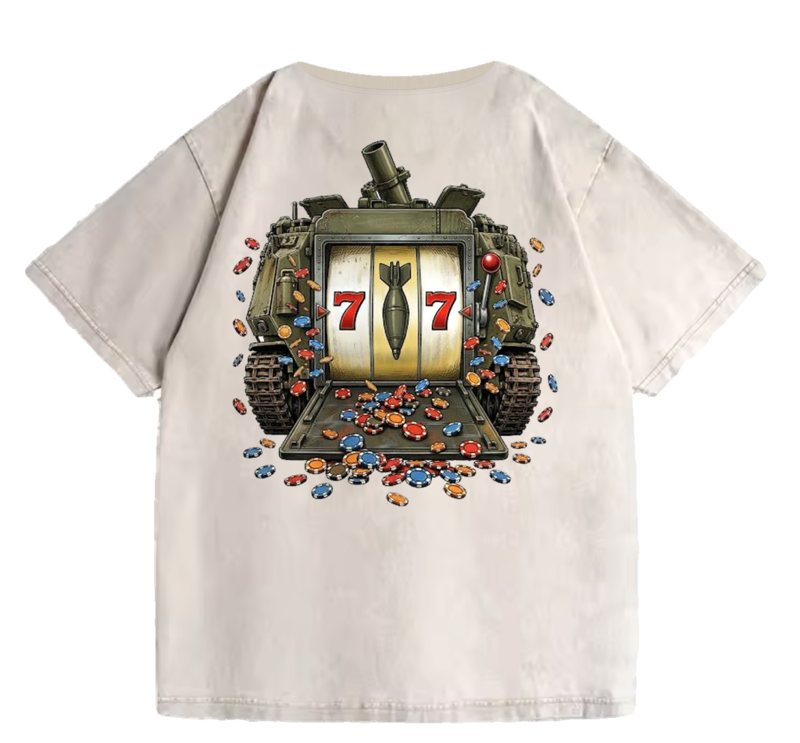
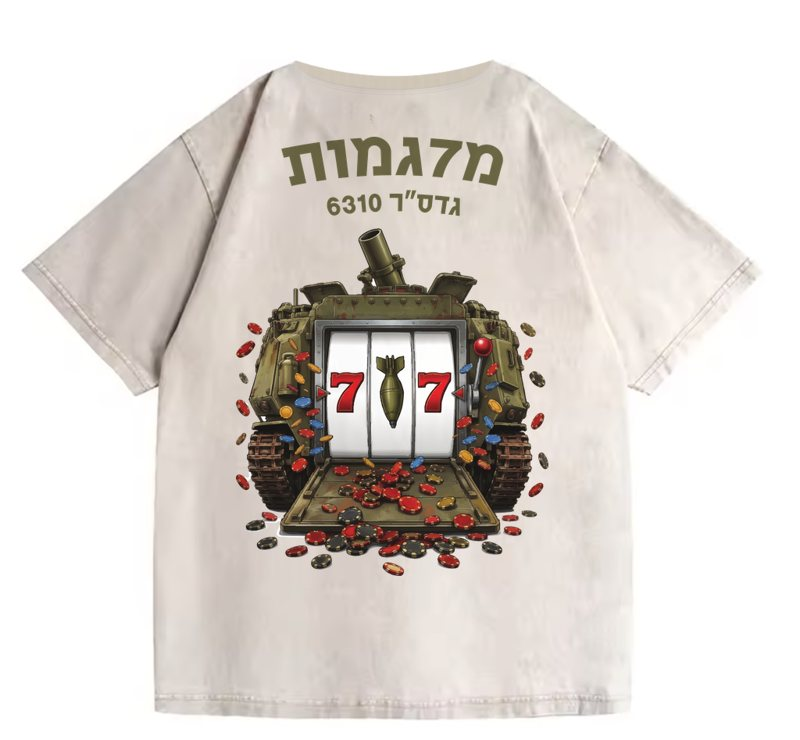
Use the final 777 Boom artwork on the shirt mockups
Print placed on clean shirt backs from the final PDF, including the
new 'מלגמות / גדס"ר 6310' heading.

Claude-Session: https://claude.ai/code/session_01UB5ixYJurzuEAsC2ZiJEoX

diff --git a/index.html b/index.html
@@ -405,8 +405,8 @@ footer { color: var(--muted); font-size: 0.88rem; border-top: 1px solid var(--li
     "mesayaat-tee-front": 'img/mesayaat-tee-front.jpg',
     "shalhi-oversize-back": 'img/shalhi-oversize-back.jpg',
     "shalhi-tee-back": 'img/shalhi-tee-back.jpg',
-    "boom-oversize-back": 'img/boom-oversize-back.jpg',
-    "boom-tee-back": 'img/boom-tee-back.jpg'
+    "boom-oversize-back": 'img/boom-oversize-back.jpg?v=2',
+    "boom-tee-back": 'img/boom-tee-back.jpg?v=2'
   };
   /* Shown immediately; replaced by the sheet's own settings once they load */
   var DEFAULTS = {
